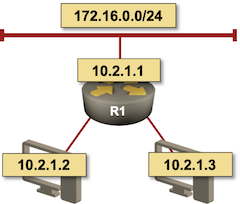
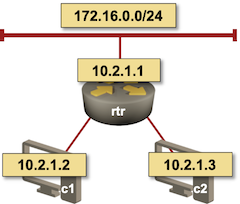
New blog post: Unnumbered Ethernet interfaces with DHCP

diff --git a/content/posts/2021/06/unnumbered-ethernet-dhcp.md b/content/posts/2021/06/unnumbered-ethernet-dhcp.md
@@ -1,0 +1,130 @@
+---
+title: "Unnumbered Ethernet Interfaces, DHCP Edition"
+date: 2021-06-10 08:42:00
+tags: [ DHCP, IP routing, networking fundamentals ]
+series: unnumbered-interfaces
+---
+Last week we explored the [basics of unnumbered IPv4 Ethernet interfaces](https://blog.ipspace.net/2021/06/unnumbered-ethernet-interfaces.html), and how you could use them to save IPv4 address space in routed access networks. I also mentioned that you could simplify the head-end router configuration if you're using DHCP instead of per-host static routes.
+
+Obviously you'd need a smart DHCP server/relay implementation to make this work. Simplistic local DHCP server would allocate an IP address to a client requesting one, send a response and move on. Likewise, a DHCP relay would forward a DHCP request to a remote DHCP server (adding enough information to allow the DHCP server to select the desired DHCP pool) and forward its response to the client.
+<!--more-->
+What we need to make unnumbered IPv4 Ethernet interfaces work with DHCP is an extra step: as a DHCP reply (locally originated or relayed) is sent to a client connected over an unnumbered IPv4 interface, a static host route is added to the router's routing table to make that client reachable through the router.
+
+I've first seen static routes created from DHCP responses in [DHCPv6 relays supporting IPv6 prefix delegation with IA_PD option](https://blog.ipspace.net/2010/10/dhcpv6-relaying-another-trouble-spot.html). A few years later, DHCPv6 relays started [adding host routes based on IA_NA (address allocation) responses](https://blog.ipspace.net/2013/01/dhcpv6-based-address-allocation-on.html). Similar behavior is now available in some IPv4 DHCP implementations[^3].
+
+[^3]: At least in IOS XE release 16.6, pointers to other implementations are most welcome -- please write a comment.
+
+## Does It Really Work?
+
+A lab test always beats academic discussions, and we already have the lab built. [We'll use the same lab setup as the last time](https://github.com/ipspace/netsim-examples/tree/master/routing/lan-unnumbered) with a slightly different IP addressing. Instead of static IP addresses and static routes, we'll configure DHCP server on the access router, and use DHCP-based address allocation on the clients.
+
+{{<figure src="/2021/06/Addr-Ethernet-Unnumbered-DHCP.png" caption="Lab topology">}}
+
+To make our setup work we have to configure DHCP client on *c1* and *c2*. I used Cisco IOS XE for the clients; I could have used Linux VMs or containers, but then I'd have to figure out how to configure DHCP client on a Linux box. Call me lazy...
+
+{{<cc>}}DHCP client configured on clients' uplink{{</cc>}}
+```
+interface GigabitEthernet2
+ description c1 -> rtr [dhcp]
+ ip address dhcp
+```
+
+On the access router we have to configure:
+
+* A DHCP pool;
+* A loopback interface with an IP prefix exactly matching the DHCP pool IP prefix;
+* Unnumbered access interfaces.
+
+{{<cc>}}DHCP server configuration on *rtr*{{</cc>}}
+```
+interface Loopback1
+ ip address 10.42.42.1 255.255.255.0
+!
+ip dhcp pool Access
+ network 10.42.42.1 255.255.255.0
+ default-router 10.42.42.1
+!
+interface GigabitEthernet2
+ no ip address
+ ip unnumbered Loopback1
+interface GigabitEthernet3
+ no ip address
+ ip unnumbered Loopback1
+```
+
+After a few seconds, we'll see the DHCP bindings[^1]:
+
+[^1]: I removed the *type* and *state* columns from the printout   to squeeze it into available width.
+
+{{<cc>}}DHCP bindings on *rtr*{{</cc>}}
+```
+rtr#show ip dhcp binding
+Bindings from all pools not associated with VRF:
+IP address      Client-ID/ 		Lease expiration 	Interface
+		Hardware address/
+		User name
+10.42.42.2      0063.6973.636f.2d35.    Jun 07 2021 07:27 AM    GigabitEthernet3
+                3235.342e.3030.3438.
+                2e32.6462.362d.4769.
+                32
+10.42.42.3      0063.6973.636f.2d35.    Jun 07 2021 07:27 AM    GigabitEthernet2
+                3235.342e.3030.6333.
+                2e61.3066.382d.4769.
+                32
+```
+
+At the same time, the static host routes pointing to allocated DHCP addresses are added to the IP routing table:
+
+{{<cc>}}IP routing table on *rtr*{{</cc>}}
+```
+rtr#show ip route 10.42.42.0 longer-prefixes | begin Gateway
+Gateway of last resort is 192.168.121.1 to network 0.0.0.0
+
+      10.0.0.0/8 is variably subnetted, 5 subnets, 2 masks
+C        10.0.0.3/32 is directly connected, Loopback0
+C        10.42.42.0/24 is directly connected, Loopback1
+L        10.42.42.1/32 is directly connected, Loopback1
+S        10.42.42.2/32 is directly connected, GigabitEthernet3
+S        10.42.42.3/32 is directly connected, GigabitEthernet2
+```
+
+From [last week's blog post](https://blog.ipspace.net/2021/06/unnumbered-ethernet-interfaces.html) we know that's enough to make the IP routing work -- we can ping *c2* (10.42.42.2) and the other loopback interface of *rtr* (10.0.0.3) from *c1*.
+
+{{<cc>}}Connectivity tests on *c1*{{</cc>}}
+```
+c1#ping 10.42.42.2
+Type escape sequence to abort.
+Sending 5, 100-byte ICMP Echos to 10.42.42.2, timeout is 2 seconds:
+..!!!
+Success rate is 60 percent (3/5), round-trip min/avg/max = 1/1/2 ms
+c1#ping 10.0.0.1
+Type escape sequence to abort.
+Sending 5, 100-byte ICMP Echos to 10.0.0.1, timeout is 2 seconds:
+!!!!!
+Success rate is 100 percent (5/5), round-trip min/avg/max = 1/1/1 ms
+```
+
+## Repeatability Matters
+
+Want to check my lab results? The final router configurations are on GitHub.
+
+Want to build a lab in a few minutes and have it configured in seconds? You'll have to invest a bit of time first:
+
+* Install [Vagrant and libvirt](https://netsim-tools.readthedocs.io/en/latest/labs/libvirt.html). If you're running your lab on Windows or MacOS host, [use a Ubuntu virtual machine](https://blog.kirchne.red/netsim-tools-quickstart.html).
+* [Build CSR 1000v box](https://codingpackets.com/blog/cisco-iosv-vagrant-libvirt-box-install/)
+* [Install *netsim-tools*](https://netsim-tools.readthedocs.io/en/latest/install.html)
+
+After you got everything up and running:
+
+* Copy my [lab topology](https://github.com/ipspace/netsim-examples/blob/master/routing/lan-unnumbered/dhcp.yml) into **dhcp.yml** in an empty directory (or clone my [netsim-examples repository](https://github.com/ipspace/netsim-examples))
+* Execute **create-topology -t dhcp.yml -p -i -c ** to create Vagrantfile, Ansible inventory and Ansible configuration file
+* Execute **initial-config.ansible** to configure the devices.
+
+You could apply the configuration changes outlined in this blog post manually. I decided to automate them:
+
+* Add [client-side](https://github.com/ipspace/netsim-examples/blob/master/routing/lan-unnumbered/dhcp-client.j2) and [server-side](https://github.com/ipspace/netsim-examples/blob/master/routing/lan-unnumbered/dhcp-server.j2) Jinja2 templates to your directory
+* Execute **config.ansible -e config=dhcp-server.j2 -l rtr**[^2] to configure the DHCP server
+* Execute **config.ansible -e config=dhcp-client.j2 -l c1,c2** to configure DHCP clients
+* Use **connect.sh** to connect to the routers and inspect the results.
+
+[^2]: **config.ansible** script is an Ansible playbook and accepts the usual **ansible-playbook** parameters. The **-e** parameter sets an extra variable, the **-l** parameter limits the playbook run to a subset of devices.

diff --git a/content/posts/2021/06/bgp-data-center-questions.md b/content/posts/2021/06/bgp-data-center-questions.md
@@ -1,6 +1,6 @@
 ---
 title: "Questions about BGP in the Data Center (with a Whiff of SRv6)"
-date: 2021-06-10 06:04:00
+date: 2021-06-17 06:04:00
 tags: [ data center, BGP, design ]
 ---
 Henk Smit left numerous questions in a comment referring to the [Rethinking BGP in the Data Center](https://blog.ipspace.net/2021/05/worth-reading-rethinking-bgp-data-center.html) presentation by Russ White:
@@ -31,4 +31,4 @@ That's more-or-less what I've been saying for years (excluding segment routing ;
 
 SR-MPLS is implementable on any decent merchant silicon ASIC -- just take a look at Arista EOS. Most merchant silicon supported MPLS (with some limitations) a decade ago, and as hyperscalers moved WAN forwarding decisions to edge web proxies instead of WAN routers, I'm positive at least some of them use MPLS forwarding at the WAN edge.
 
-SRv6 is a different story. Very few merchant ASICs support it (apart from _anything can be done with programmable silicon_ fairy tales). Jericho2c+ seems to be an exception... but it started _sampling_ last September, and we have no idea what its SRv6 limitations might be. Has anyone seen it in a shipping product? Are you aware of any other merchant silicon SRv6 implementation? Comments are most welcome!
+SRv6 is a different story. Very few merchant ASICs support it (apart from _anything can be done with programmable silicon_ fairy tales). Jericho2c+ seems to be one of the exceptions... but it started _sampling_ last September, and we have no idea what its SRv6 limitations might be. Has anyone seen it in a shipping product? Are you aware of any other merchant silicon SRv6 implementation and their limitations (segment stack depth comes to mind)? Comments are most welcome!
